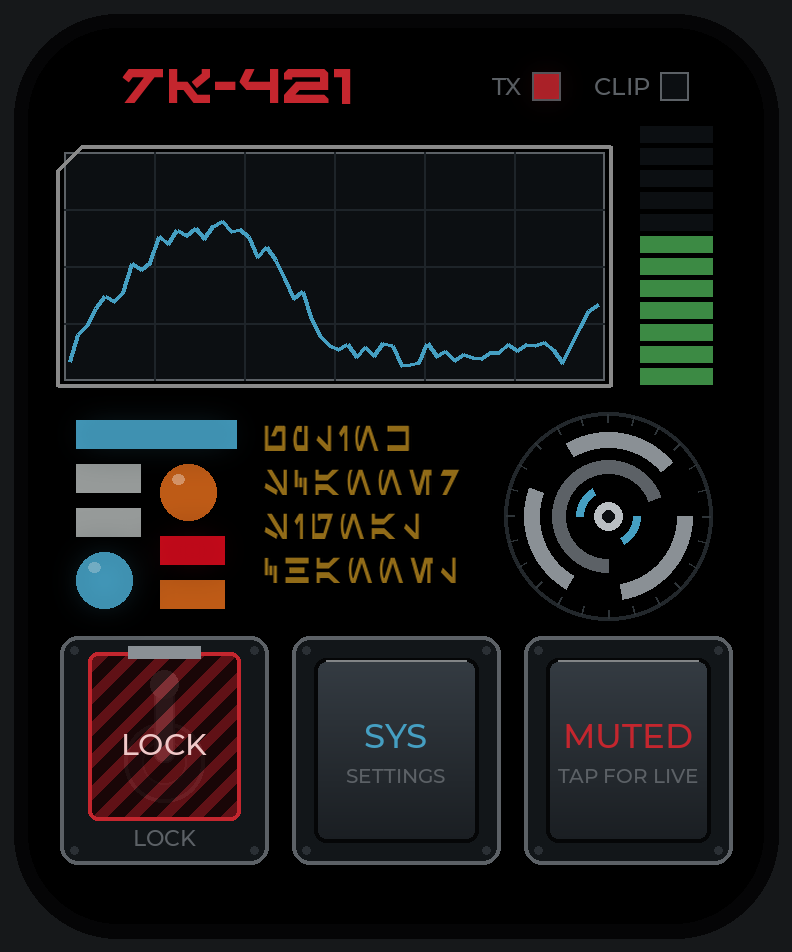
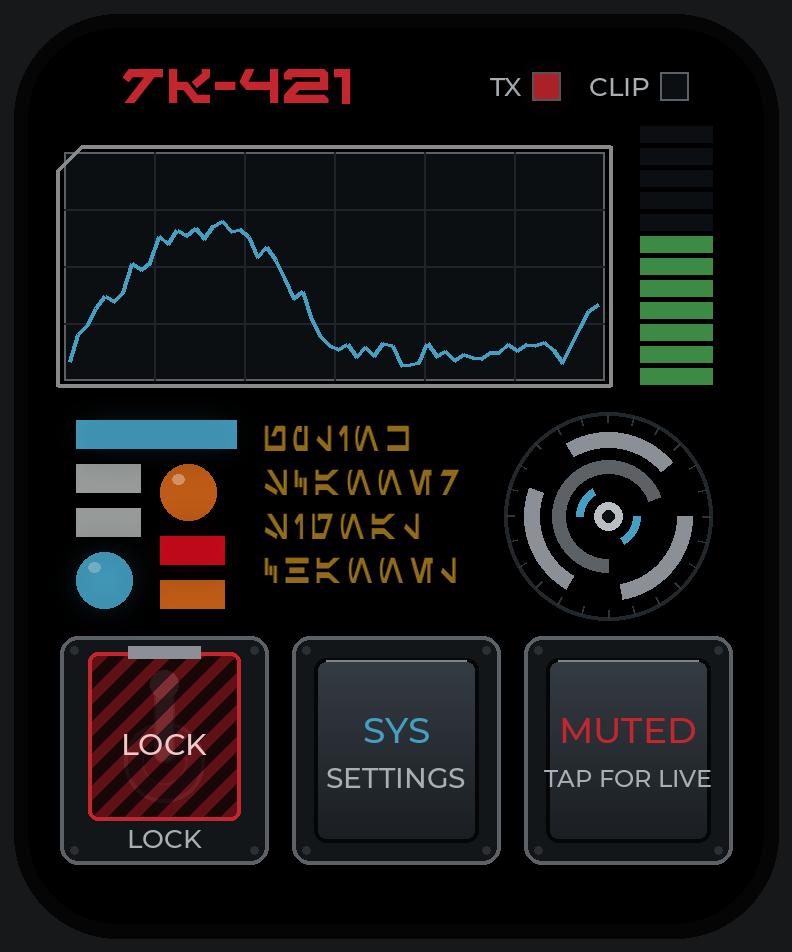
Mock-ups: bigger, lighter key labels and drawn arrow symbols
Sub-labels 10 px dark grey -> 14 px light grey (fit-to-key), small notes >= 13 px,
arrows and -/+ drawn as shapes. Spec updated.

Claude-Session: https://claude.ai/code/session_014PmTqdRFYRCH22NdKcRT7c

diff --git a/design/mockups/make_mockups.py b/design/mockups/make_mockups.py
@@ -18,6 +18,7 @@ W, H, R, S = 368, 448, 45, 2
 BG, PANEL, FRAME, TEXT = "#000000", "#0C0F12", "#5C6166", "#C9CDD0"
 RED, GREEN, BLUE, AMBER = "#C4262E", "#3C8A44", "#459FC2", "#E0A526"
 DIM = "#3A3F44"
+LABEL = "#A9B0B5"      # secondary labels: light enough to read at arm's length
 LAMP = {"grey": "#979B9A", "orange": "#BF5B16", "red": "#D00A1B", "blue": "#459FC2"}
 
 
@@ -153,11 +154,34 @@ def key(sc, x, y, w, h, label, accent=TEXT, lit=False, sub=None, big=False, pres
         fg = accent
     sc.d.rounded_rectangle(sc.b(cx0, cy0, cx1, cy1), radius=CAP_R * S, outline="#050607", width=2 * S)  # shadow rim
     sc.line([(cx0 + CAP_R, cy0 + 1), (cx1 - CAP_R, cy0 + 1)], mix(TEXT, "#000000", 0.35 if not lit else 0.0), 1)  # top highlight
-    f = font(MONT, 30 if big else 17)
-    ty = (cy0 + cy1) / 2 - (7 if sub else 0)
-    sc.text((cx0 + cx1) / 2, ty, label, f, fg, "mm")
-    if sub:
-        sc.text((cx0 + cx1) / 2, ty + 20, sub, font(MONT, 10), fg if lit else FRAME, "mm")
+    f = font(MONT, 40 if big else 18)
+    ty = (cy0 + cy1) / 2 - ((13 if big else 10) if sub else 0)
+    if label in SYMBOLS:
+        symbol(sc, (cx0 + cx1) / 2, ty, label, fg)
+    else:
+        sc.text((cx0 + cx1) / 2, ty, label, f, fg, "mm")
+    if sub:   # 14 px, shrunk only as far as needed to fit the cap (never below 12)
+        px = 14
+        while px > 12 and font(MONT, px).getlength(sub) / S > (cx1 - cx0) - 10:
+            px -= 1
+        sc.text((cx0 + cx1) / 2, ty + 24, sub, font(MONT, px), fg if lit else LABEL, "mm")
+
+
+SYMBOLS = {"◀", "▶", "▲", "▼", "−", "+"}
+
+
+def symbol(sc, cx, cy, name, col, r=11):
+    """Arrows and -/+ drawn as shapes (the font's arrow glyphs are tiny)."""
+    pts = {"◀": [(cx - r, cy), (cx + r * 0.8, cy - r), (cx + r * 0.8, cy + r)],
+           "▶": [(cx + r, cy), (cx - r * 0.8, cy - r), (cx - r * 0.8, cy + r)],
+           "▲": [(cx, cy - r), (cx - r * 1.1, cy + r * 0.8), (cx + r * 1.1, cy + r * 0.8)],
+           "▼": [(cx, cy + r), (cx - r * 1.1, cy - r * 0.8), (cx + r * 1.1, cy - r * 0.8)]}
+    if name in pts:
+        sc.d.polygon([(x * S, y * S) for x, y in pts[name]], fill=col)
+    else:
+        sc.rect(cx - r * 1.2, cy - 2, cx + r * 1.2, cy + 2, fill=col)
+        if name == "+":
+            sc.rect(cx - 2, cy - r * 1.2, cx + 2, cy + r * 1.2, fill=col)
 
 
 def guarded_toggle(sc, x, y, w, h, cover_open=False, label="LOCK"):
@@ -168,7 +192,7 @@ def guarded_toggle(sc, x, y, w, h, cover_open=False, label="LOCK"):
     sc.d.ellipse(sc.b(cx - 11, cy - 11, cx + 11, cy + 11), fill="#151A1E", outline="#4C5358", width=S)
     sc.d.rounded_rectangle(sc.b(cx - 5, cy - 40, cx + 5, cy), radius=4 * S, fill="#B9BEC2", outline="#6E757B", width=S)
     sc.d.ellipse(sc.b(cx - 7, cy - 46, cx + 7, cy - 32), fill="#D8DCDF")
-    sc.text(cx, y + h - 13, label, font(MONT, 11), FRAME, "mm")
+    sc.text(cx, y + h - 13, label, font(MONT, 13), LABEL, "mm")
     if cover_open:
         # cover flipped up: shows as a thick striped bar at the top hinge
         cov = (x + 14, y + 8, x + w - 14, y + 22)
@@ -260,7 +284,7 @@ def small_lamp(sc, x, y, label, on, col=RED, f=None):
     sc.rect(x, y, x + 14, y + 14, fill=col if on else PANEL, outline=FRAME)
     if on:
         sc.glow_rect(x, y, x + 14, y + 14, col, 160)
-    sc.text(x - 5, y + 7, label, f or font(MONT, 12), FRAME, "rm")
+    sc.text(x - 5, y + 7, label, f or font(MONT, 13), LABEL, "rm")
 
 
 def voice_wave(n, seed, t=0):
@@ -342,7 +366,7 @@ def lock_screen():
 
 def header(sc, title, page, pages):
     sc.text(46, 28, title, font(MONT, 22), TEXT, "lm")
-    sc.text(322, 28, f"{page}/{pages}", font(MONT, 14), FRAME, "rm")
+    sc.text(322, 28, f"{page}/{pages}", font(MONT, 16), LABEL, "rm")
     for i in range(pages):
         x = 46 + i * 35
         sc.rect(x, 46, x + 29, 50, fill=AMBER if i + 1 == page else DIM)
@@ -358,8 +382,8 @@ def settings_screen(name="EFFECT", value=70, page=2, desc="DRIVE + BITCRUSH", un
     sc.arc(cx, cy, r, 135, 135 + 270 * value / 100, AMBER, 9)
     sc.arc(cx, cy, r + 9, 200, 260, "#5C6166", 3)               # slow-spinning outer tick (alive)
     sc.text(cx, cy - 2, f"{value}{unit}", font(MONT, 30), AMBER, "mm")
-    sc.text(cx, cy + 26, "LEVEL", font(MONT, 10), FRAME, "mm")
-    sc.text(176, 76, desc, font(MONT, 13), TEXT, "lm")
+    sc.text(cx, cy + 27, "LEVEL", font(MONT, 13), LABEL, "mm")
+    sc.text(176, 76, desc, font(MONT, 14), TEXT, "lm")
     for i in range(10):                                         # 10-seg bar
         sc.rect(176 + i * 17, 94, 189 + i * 17, 112, fill=AMBER if i < value // 10 else DIM)
     ticker(sc, 176, 128, Ticker(2, 4), font(AUREB, 12), mix(AMBER, "#000000", 0.45))
@@ -378,7 +402,7 @@ def reset_screen(progress=0.6):
     sc = Screen()
     header(sc, "FACTORY RESET", 8, 8)
     sc.text(184, 92, "Erase callsign and settings", font(MONT, 14), TEXT, "mm")
-    sc.text(184, 114, "Hold the switch for 2 seconds", font(MONT, 13), FRAME, "mm")
+    sc.text(184, 114, "Hold the switch for 2 seconds", font(MONT, 14), LABEL, "mm")
     for i in range(20):
         sc.rect(46 + i * 14, 138, 56 + i * 14, 160, fill=RED if i < int(progress * 20) else DIM)
     notched_frame(sc, 16, 60, 352, 184)
@@ -387,7 +411,7 @@ def reset_screen(progress=0.6):
     sc.glow_rect(30, 210, 338, 286, RED, 140, ring=True)
     sc.line([(30 + CAP_R, 211), (338 - CAP_R, 211)], "#8A3A3E", 1)
     sc.text(184, 240, "HOLD TO ERASE", font(MONT, 20), "#F0C8C8", "mm")
-    sc.text(184, 266, f"ARMING {int(progress * 100)}%", font(MONT, 12), "#E09090", "mm")
+    sc.text(184, 266, f"ARMING {int(progress * 100)}%", font(MONT, 14), "#E8A0A0", "mm")
     key(sc, 16, 312, 104, 104, "◀", BLUE, sub="PREV", big=True)
     key(sc, 132, 312, 104, 104, "MAIN", TEXT, sub="EXIT")
     key(sc, 248, 312, 104, 104, "▶", BLUE, sub="NEXT", big=True)
@@ -400,7 +424,7 @@ CHARS = " ABCDEFGHIJKLMNOPQRSTUVWXYZ0123456789-"
 def callsign_screen(cs="TK-421", sel=3):
     sc = Screen()
     sc.text(46, 28, "CALLSIGN", font(MONT, 22), TEXT, "lm")
-    sc.text(322, 28, "CODE CYLINDER", font(MONT, 11), FRAME, "rm")
+    sc.text(322, 28, "CODE CYLINDER", font(MONT, 13), LABEL, "rm")
     n, dw, gap = 10, 29, 3
     x0 = (W - (n * dw + (n - 1) * gap)) / 2
     for i in range(n):

diff --git a/docs/UI-DESIGN.md b/docs/UI-DESIGN.md
@@ -62,6 +62,9 @@ four. Red always means "transmitting / live / danger". Keep large areas black.
 - Minimum readable size on this panel: 16 px (≈1.3 mm cap height). Anything the user must
   read at arm's length: 20 px+.
 - Aurebesh is decoration and the lock screen only — never the only label on a control.
+- Key labels: main word 18 px; sub-label 14 px (12 px only if needed to fit) in light grey
+  `#A9B0B5`, never the dark `FRAME` grey. Other notes ≥ 13 px. Arrows and − / + are drawn
+  as shapes about 22 px across, not font glyphs.
 
 ## 4. Touch rules (the screen is small)
 
